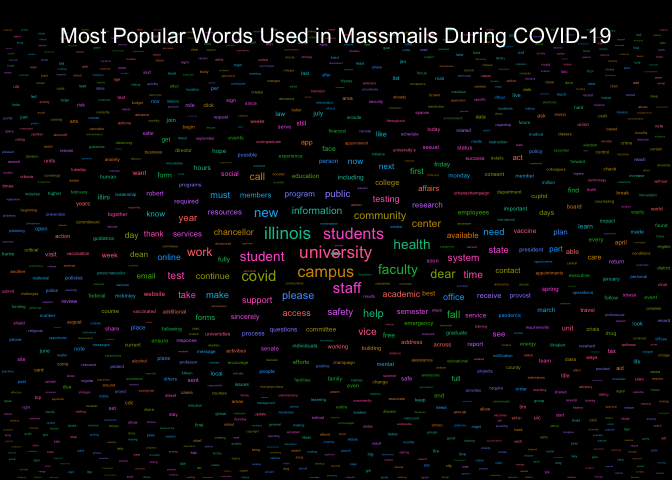
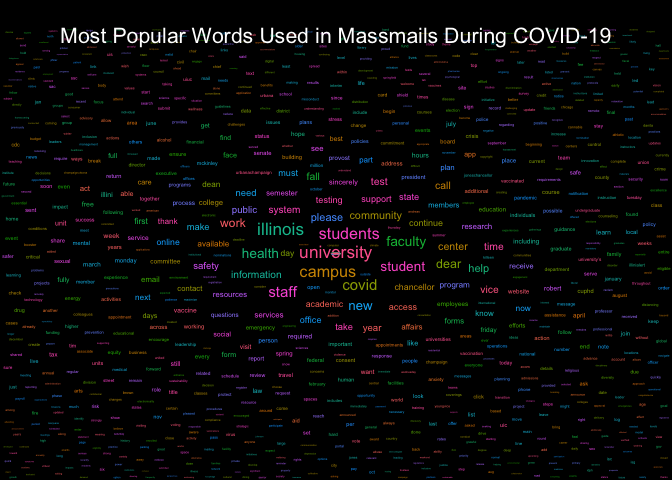
Re-build README.Rmd and Graphs

Changed region(s): [[0.0, 0.0625, 1.0, 1.0]]

diff --git a/README.md b/README.md
@@ -17,7 +17,7 @@ The archive may be viewed here:
 
 <https://massmail.illinois.edu/massmailArchive>
 
-Data has **1914** observations and **7** variables:
+Data has **1915** observations and **7** variables:
 
 - `datetime`: Date and time when the email was sent in the form of
   `YYYY-MM-DD HMS` with either CDT or CST.
@@ -210,16 +210,16 @@ head(most_popular_words, 10) %>%
 
 | word        | freq |
 |:------------|-----:|
-| university  | 2551 |
-| students    | 2108 |
+| university  | 2554 |
+| students    | 2111 |
 | campus      | 1874 |
-| illinois    | 1752 |
-| student     | 1301 |
+| illinois    | 1753 |
+| student     | 1304 |
 | faculty     | 1184 |
-| health      | 1130 |
-| community   | 1108 |
+| health      | 1139 |
+| community   | 1109 |
 | covid       | 1070 |
-| information | 1065 |
+| information | 1067 |
 
 #### Wordcloud
 
